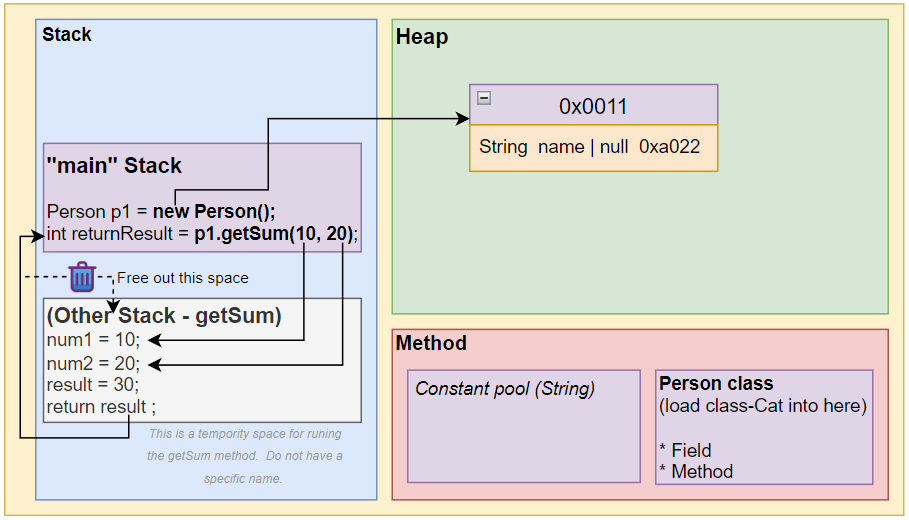
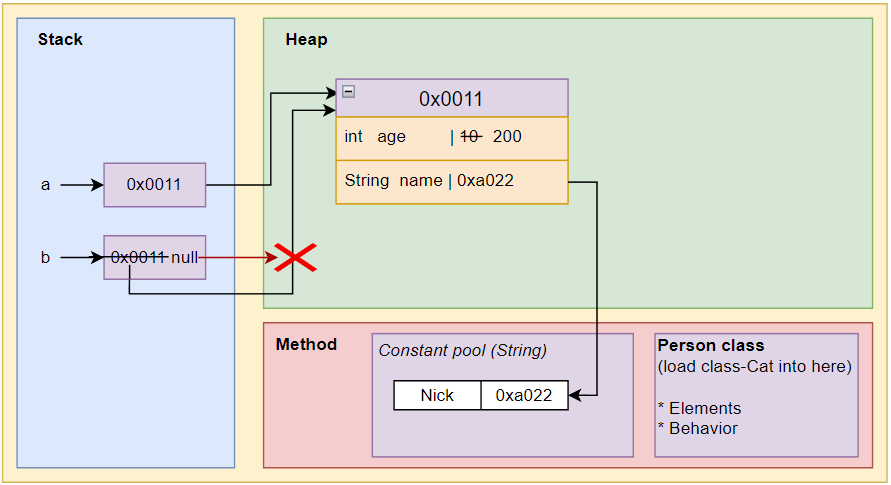
update 1.6.1-3

diff --git a/docs/en/Java/1.Java-Basic/6.OOP-Basic/3.Memory-Allocation-Mechanism.md b/docs/en/Java/1.Java-Basic/6.OOP-Basic/3.Memory-Allocation-Mechanism.md
@@ -1,0 +1,94 @@
+# ⭐ Creating Classes, Attributes, and Methods — Memory Allocation Mechanism
+
+## Memory Principles When Instantiating Objects
+
+Example:
+
+```java
+Cat cat1 = new Cat();
+cat1.name = "Nick"; 
+cat1.age = 3;
+cat1.color = "yellow"
+```
+
+🔥 In the heap space (actual space), the real object is `new Cat();`, everything else is just a reference (`cat1` - object reference).
+
+![1](image/1.png)
+
+The actual object space (similar to an array) in the heap can be referenced by multiple object names.
+`cat1` is an object name, just an object reference, storing the object's address value.
+
+## Object Allocation Mechanism
+
+```java
+class Person {             // Load the Person class information into the method area
+    private int age;
+    private String name;
+}
+Person p1 = new Person();    /* Create the object name p1 in the stack, at this point its value is null.
+                                Allocate memory space for p1 (object instantiation) in the heap, including the corresponding Person field. At this point, the attribute values are default.
+                                Assign the memory address value to the object p1. p1 points to the object.
+                            */
+p1.age = 22;                // Change the p1.age to 22
+p1.name = "Nick";           // Change the p1.name to "Nick"
+Person p2 = p1;              // Create the object p2 in the stack and assign the address value of p1 to p2. (p2 does not create new memory space; its address value is p1)
+
+System.out.println("p2 age is " + p2.age);
+// p2 age is 22
+
+p1.age = 30;  // or p2.age = 30;  Both operate on the same value
+System.out.println("p2 age is " + p2.age);
+// p2 age is 30
+```
+
+![2](image/2.png)
+
+## Memory Principles When Null Pointer Exception Occurs
+
+```java
+Person a = new Person();
+a.age = 10;
+a.name = "Nick";
+Person b;
+b = a;
+System.out.println("b name is " + b.name);    // b name is Nick
+
+b.age = 495;
+b = null;    
+System.out.println("a age is " + a.age);    // a age is 495
+System.out.println("b age is " + b.age);    // Error!!! Null_Pointer_Exception, compiles successfully but an exception will occur.
+```
+
+![image4](image/3.png)
+
+## Memory Principles of Method Execution and Garbage Collection
+
+📌 Whenever the program reaches a method (including the main method), a temporary independent stack space is **opened** to execute this method.
+This independent stack space will be **deleted/released** when the method ends.
+
+```java
+Public class Method01 {
+    public static void main(String[] a) {
+        Person p1 = new Person();
+        int returnResult = p1.getSum(10, 20);  
+    }
+}
+
+class Person {
+    // field
+    String name;
+
+    // method
+    public int getSum(int num1, int num2) {
+        int result = n1 + n2;
+        return result;
+    }
+}
+```
+
+![4](image/4.png)
+1. Whenever the program reaches a method, a temporary independent stack space is **opened** to execute the method.
+
+2. After executing the method sequentially or reaching a return, **release/delete** this temporary stack space. Then continue executing the following code.
+
+🔥 The main method is also a method. When the main method completes, it will also delete the stack space for the current method (main), indicating the exit of the entire program.
